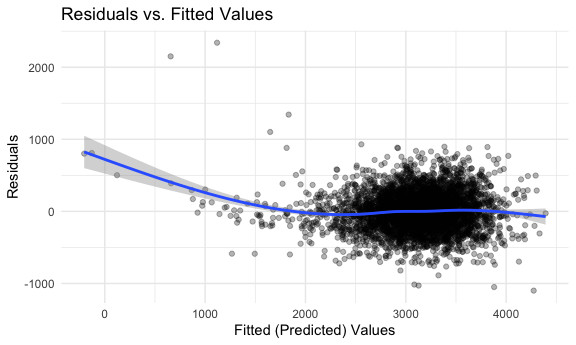
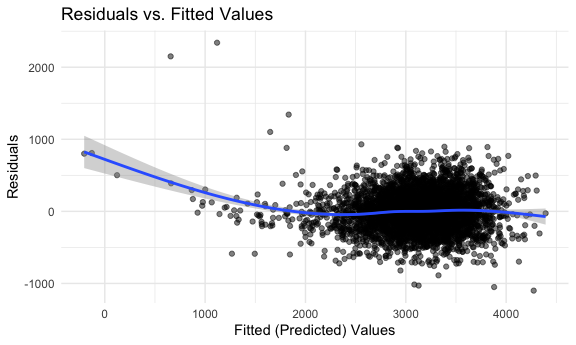
add comments for plot in Q3

diff --git a/p8105_hw6_zg2486.md b/p8105_hw6_zg2486.md
@@ -224,7 +224,7 @@ birth_data =
   add_predictions(bwt_model) %>% 
   add_residuals(bwt_model) %>% 
   ggplot(aes(x = pred, y = resid)) + 
-  geom_point(alpha = 0.3) +
+  geom_point(alpha = 0.5) +
   geom_smooth() +
   labs(
     title = "Residuals vs. Fitted Values",
@@ -238,3 +238,55 @@ birth_data
     ## `geom_smooth()` using method = 'gam' and formula = 'y ~ s(x, bs = "cs")'
 
 <img src="p8105_hw6_zg2486_files/figure-gfm/unnamed-chunk-7-1.png" width="90%" />
+In the regression model, I assumed that baby’s birth weight would
+associate with baby’s sex, baby’s head circumference at birth, baby’s
+length at birth, father’s race, gestational age in weeks, mother’s age
+at delivery, mother’s race, mother’s pre-pregnancy BMI, average number
+of cigarettes smoked per day during pregnancy, mother’s weight gain
+during pregnancy. These variables are not only related to babies’
+characteristics, but also related to parental characteristics.
+
+#### Compare models by using cross-validation.
+
+``` r
+cv_df = 
+  crossv_mc(bwt_df, 100) |> 
+  mutate(
+    train = map(train, as_tibble),
+    test = map(test, as_tibble)
+  )
+
+cv_results_df = 
+  cv_df %>% 
+  mutate(
+    bwt_model = map(train, \(x) lm(bwt ~ babysex + bhead + blength + delwt + frace + gaweeks + momage + mrace + ppbmi + smoken + wtgain , data = x)),
+    main_effect_model = map(train, \(x) lm(bwt ~ blength + gaweeks, data = x)),
+    interaction_model = map(train, \(x) lm(bwt ~ bhead * blength * babysex, data = x))
+  ) %>% 
+  mutate(
+    rmse_bwt = map2_dbl(bwt_model, test, rmse),
+    rmse_main_effect = map2_dbl(main_effect_model, test, rmse),
+    rmse_interaction = map2_dbl(interaction_model, test, rmse)
+  )
+
+cv_results_df %>% 
+  select(starts_with("rmse")) %>% 
+  pivot_longer(
+    everything(),
+    names_to = "model", 
+    values_to = "rmse",
+    names_prefix = "rmse_"
+  ) |> 
+  ggplot(aes(x = model, y = rmse)) + 
+  geom_violin()
+```
+
+<img src="p8105_hw6_zg2486_files/figure-gfm/unnamed-chunk-8-1.png" width="90%" />
+The “bwt” model has the lowest RMSE distribution overall, indicating
+including as much as related variables likely performs better than the
+other models in terms of prediction accuracy. The “interaction” model
+has a slightly higher RMSE compared with “bwt” model, indicating the
+performance of prediction accuracy could be be improved. The
+“main_effect” model has the highest RMSE and the widest spread,
+indicating poor performance of prediction accuracy and we might need
+more variables to improve the prediction accuracy.
